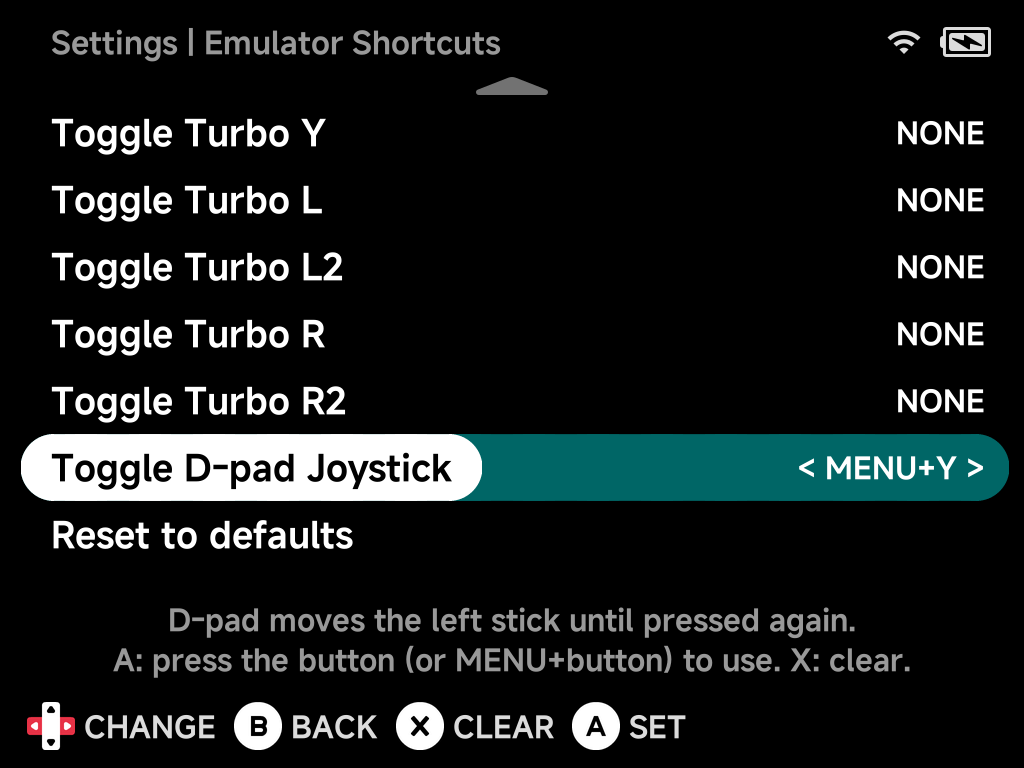
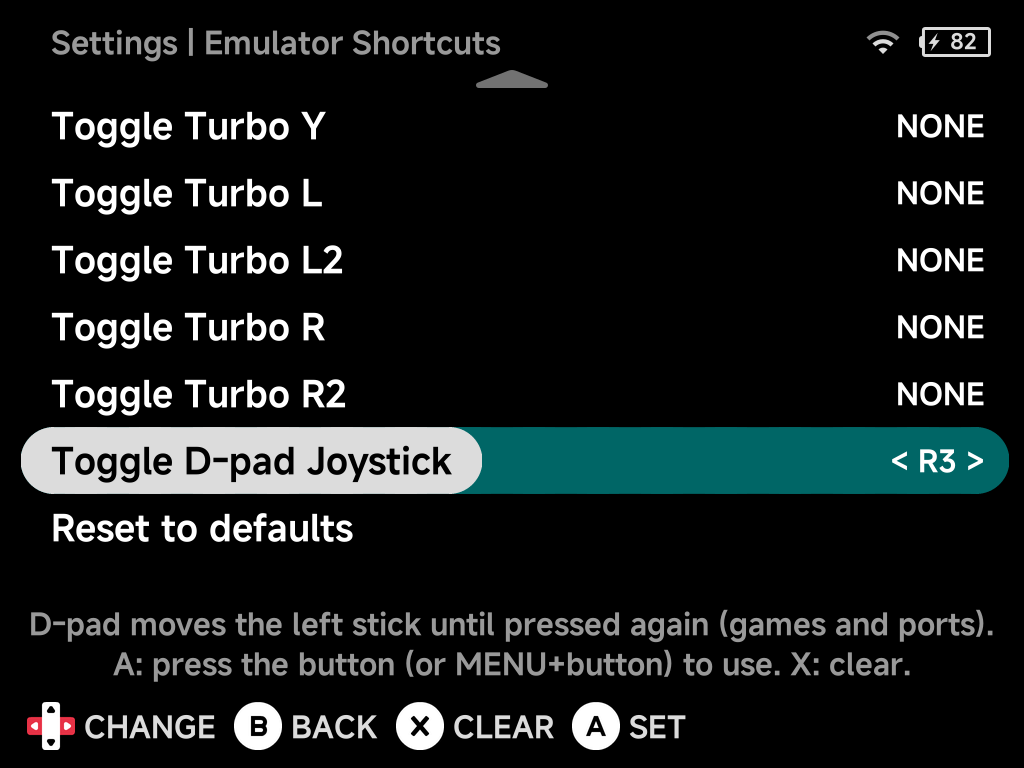
docs(shortcuts): Toggle D-pad Joystick works in PortMaster ports, Brick only (#39)

diff --git a/docs/handheld/settings/emulator-shortcuts.md b/docs/handheld/settings/emulator-shortcuts.md
@@ -50,19 +50,36 @@ button in the game.
 | **Game Switcher** | Open the [Game Switcher](../guide/game-switcher.md). |
 | **Screenshot** | Take a screenshot. |
 | **Toggle Turbo A / B / X / Y / L / L2 / R / R2** | Turn turbo (rapid fire) on or off for that button. |
-| **Toggle D-pad Joystick** | Make the D-pad drive the left analog stick, until you press it again. |
+| **Toggle D-pad Joystick** | Make the D-pad drive the left analog stick, until you press it again. Brick only. |
 
 ## Toggle D-pad Joystick
 
 ![Emulator Shortcuts, Toggle D-pad Joystick and Reset to defaults](../../assets/screenshots/set-emulator-shortcuts-2.png)
 
-For games that expect an analog stick on a device without one, such as
+For games that expect an analog stick, such as
 [Nintendo 64](../emulators/nintendo-64.md) or [PSP](../emulators/psp.md)
-games on the Brick. While it's on, the D-pad moves the left stick instead of
-pressing the D-pad. A notification shows **D-pad: Joystick** or **D-pad:
-D-pad** each time you press it.
+games. While it's on, the D-pad moves the left stick instead of pressing the
+D-pad. A notification shows **D-pad: Joystick** or **D-pad: D-pad** each
+time you press it.
 
-It is off every time a game starts.
+It works in [PortMaster](../apps/portmaster.md) ports too, with the same
+button. Ports can't show the notification, so the device vibrates instead:
+one buzz for **Joystick**, two for **D-pad**.
+
+It is off every time a game or port starts.
+
+This shortcut is only on the **Brick**. The Brick Pro and Smart Pro S have
+real analog sticks, so they don't show it.
+
+??? info "More detail"
+    - In ports, the firmware's input service makes the switch, so every
+      port sees the D-pad as the left stick, whatever controls it reads.
+    - The D-pad always pushes the stick all the way, so steering is no
+      finer than with the D-pad. It helps in ports that only read the stick
+      and ignore the D-pad.
+    - The button you bind still reaches the port, as it does in games. Use
+      a `MENU` + button combination so it doesn't also press something in
+      the port.
 
 ## Reset to defaults
 

diff --git a/docs/handheld/apps/portmaster.md b/docs/handheld/apps/portmaster.md
@@ -280,6 +280,11 @@ name and the error you see.
 
 - **Sleep works in PortMaster games.** Press the power button like anywhere
   else.
+- **Stick-only ports on the Brick.** The Brick has no analog sticks. Bind
+  [Toggle D-pad Joystick](../settings/emulator-shortcuts.md#toggle-d-pad-joystick)
+  in Settings → Emulator Shortcuts, then press it in a port to make the
+  D-pad act as the left stick. The device buzzes once for joystick, twice
+  for D-pad.
 - **Bluetooth and USB-C audio work in ports**, along with the game volume
   setting, including ports that keep their settings in their own folder.
 - PortMaster keeps itself up to date (it checks for updates when it starts).

diff --git a/docs/handheld/guide/shortcuts.md b/docs/handheld/guide/shortcuts.md
@@ -57,7 +57,7 @@ the switch.
 | `MENU` | Pause the game and open the [in-game menu](playing-games.md#the-in-game-menu) |
 | `MENU` + `SELECT` | Save, grab a fresh screenshot, and quit straight back to the [Game Switcher](game-switcher.md). The fastest way to hop between games. |
 
-Save states, fast-forward, rewind, turbo and the D-pad joystick get their own
+Save states, fast-forward, rewind, turbo and the D-pad joystick (Brick) get their own
 configurable shortcuts (optionally `MENU`-modified). Set them once in
 [Settings → Emulator Shortcuts](../settings/emulator-shortcuts.md); they apply
 to every console, unless a console or game has its own in

diff --git a/docs/handheld/settings/fn-switch.md b/docs/handheld/settings/fn-switch.md
@@ -5,7 +5,7 @@ profile: a quiet, dim setup for late-night play, or just LEDs off. Flipping
 the switch on applies everything you pick here at once; flipping it back
 reverts it. Any row left at `Unchanged` is not touched.
 
-For turbo fire or a joystick-style D-pad, use
+For turbo fire or a joystick-style D-pad (Brick, in games and ports), use
 [Emulator Shortcuts](emulator-shortcuts.md).
 
 ![FN switch settings](../../assets/screenshots/set-fn.png)
